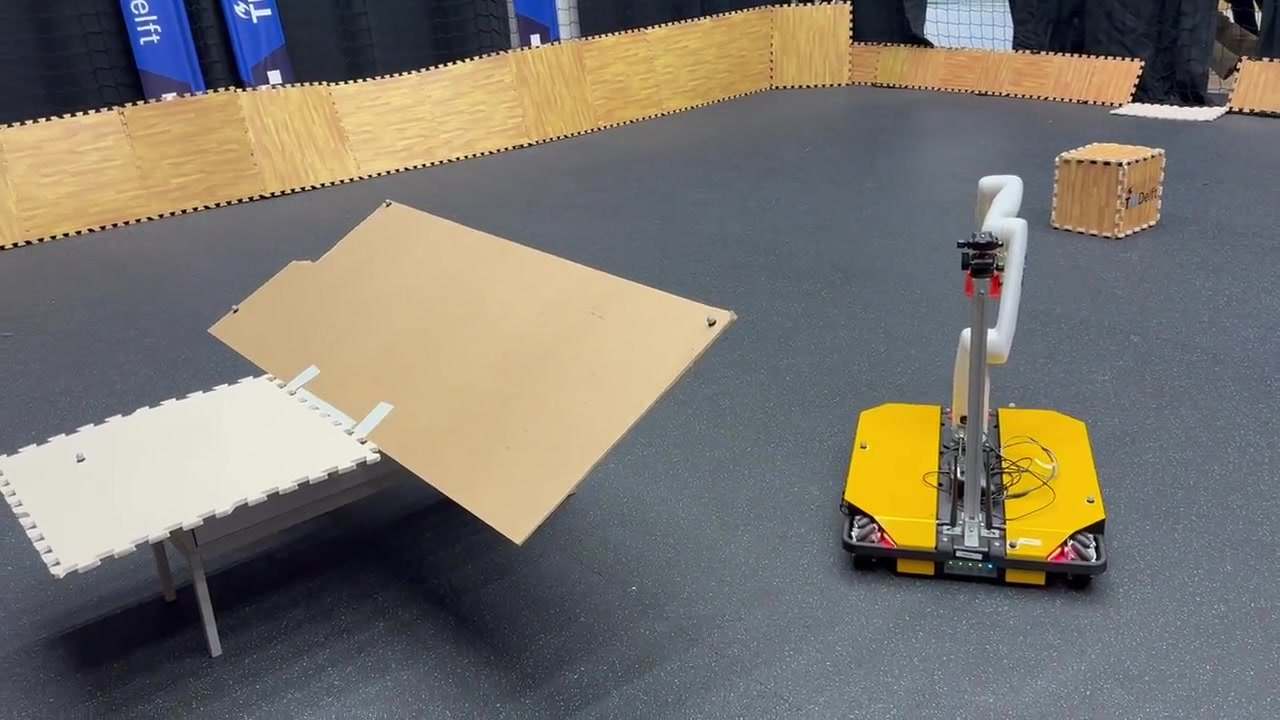
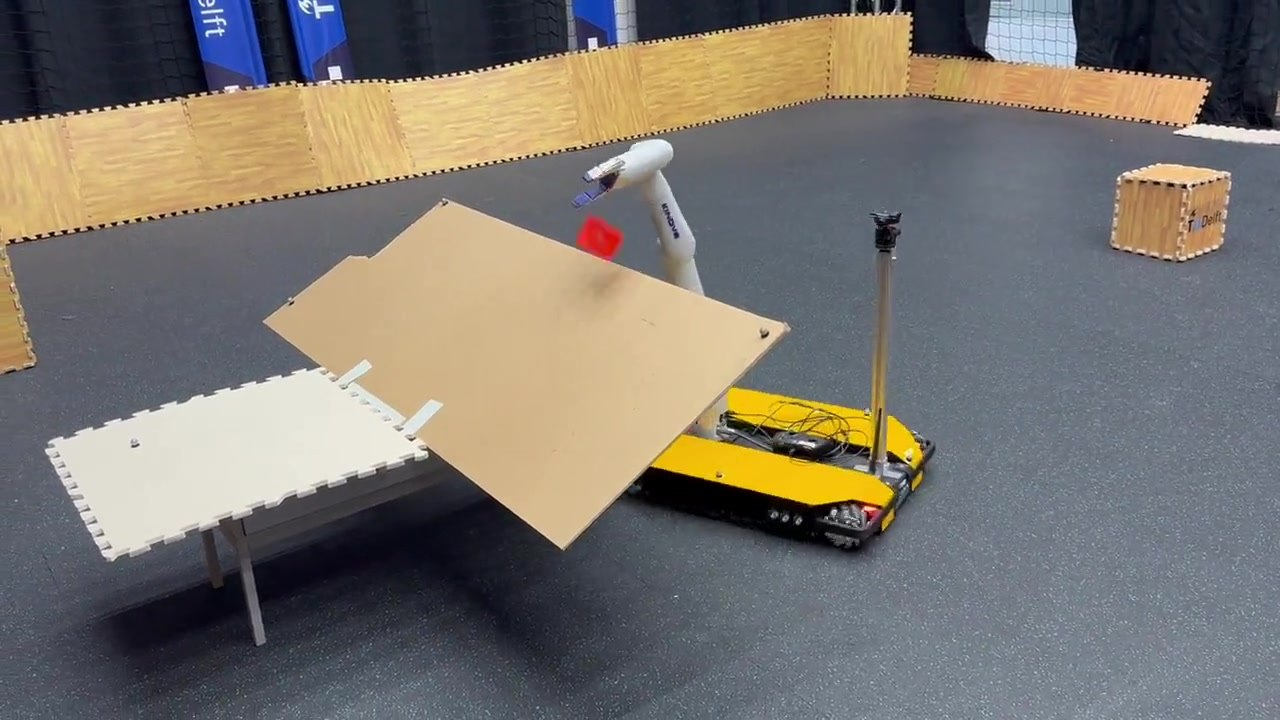
Robots: ramp photo at the moment the block falls; add MPPI top view
- lab_arena_ramp.jpg: frame at 4.9 s of the 26-matoses-ral video, with
  the red block just released above the ramp.
- lab_arena_top_view_mppi.jpg: top view of the arena from the
  biased_mppi video (no_bias8_with_samples), with the sampled
  trajectories drawn in.

Claude-Session: https://claude.ai/code/session_01S4RXcNBxJ4EsNTioieMLGi

diff --git a/content/pages/robots.html b/content/pages/robots.html
@@ -10,8 +10,10 @@ images_carousel:
   alt: Two mobile manipulators reaching towards a table with cups in the arena
 - image_path: /assets/images/robots/lab_arena_drone_racing.jpg
   alt: Drones racing through gates in the arena, with their flight paths drawn in
+- image_path: /assets/images/robots/lab_arena_top_view_mppi.jpg
+  alt: The arena seen from above, with the paths a robot's MPPI planner considers drawn in
 - image_path: /assets/images/robots/lab_arena_ramp.jpg
-  alt: A mobile manipulator next to a ramp and boxes in the arena
+  alt: A mobile manipulator dropping a red block onto a ramp in the arena
 - image_path: /assets/images/robots/new_lab_pic_1.png
   alt: Ground robots in the lab
 - image_path: /assets/images/robots/new_lab_pic_4.png
